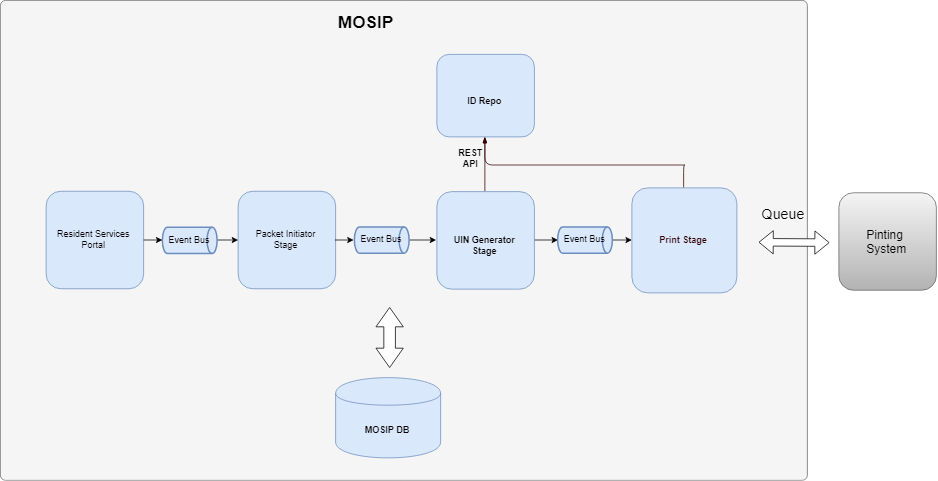
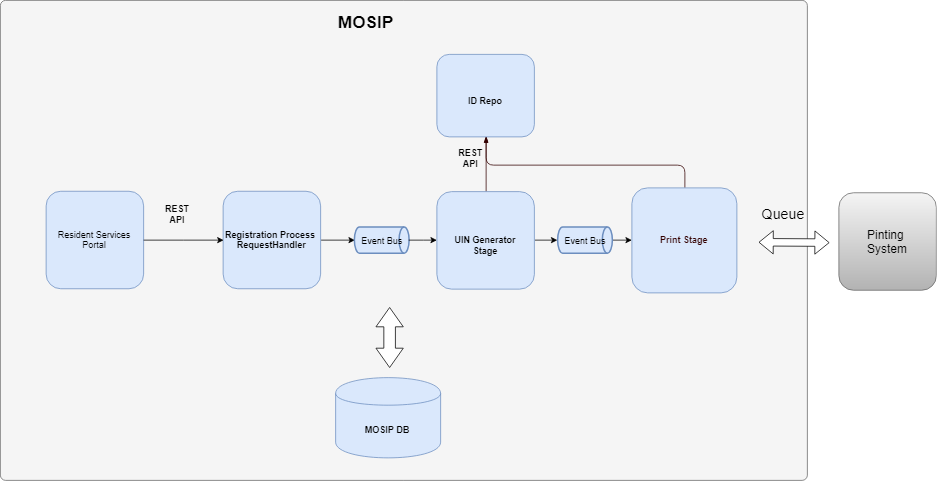
MOS-24104:Added sequence diagram

diff --git a/docs/design/registration-processor/Approach_for_Reprinting.md b/docs/design/registration-processor/Approach_for_Reprinting.md
@@ -51,14 +51,8 @@ RegistrationProcessRequestHandler --> UinGeneratorStage --> PrintStage
 ![logical class diagram](_images/re-print-logical-arch-diagram.png)
 
 
-**Class Diagram**
-
-------------
-
-![Printing_stage class diagram](_images/print_stage_class_diagram.png)
-
 **Sequence Diagram**
 
 ------------
 
-![Printing_stage seq diagram](_images/print_stage_seq_diagram.png)
+![Printing_stage seq diagram](_images/reprint_seq_diagram.png)
